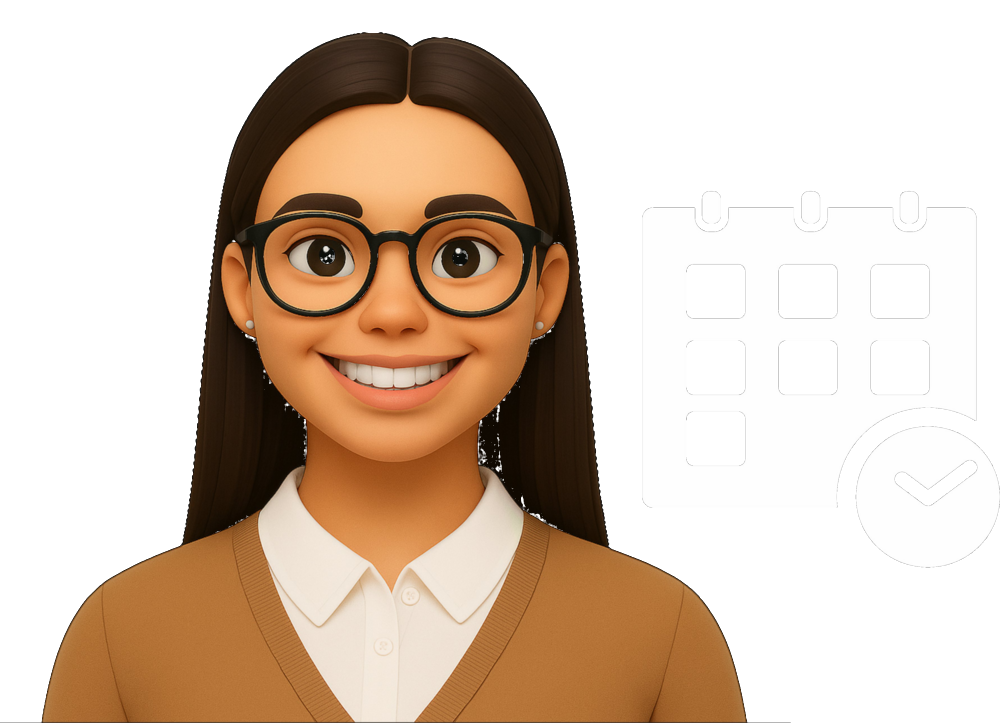
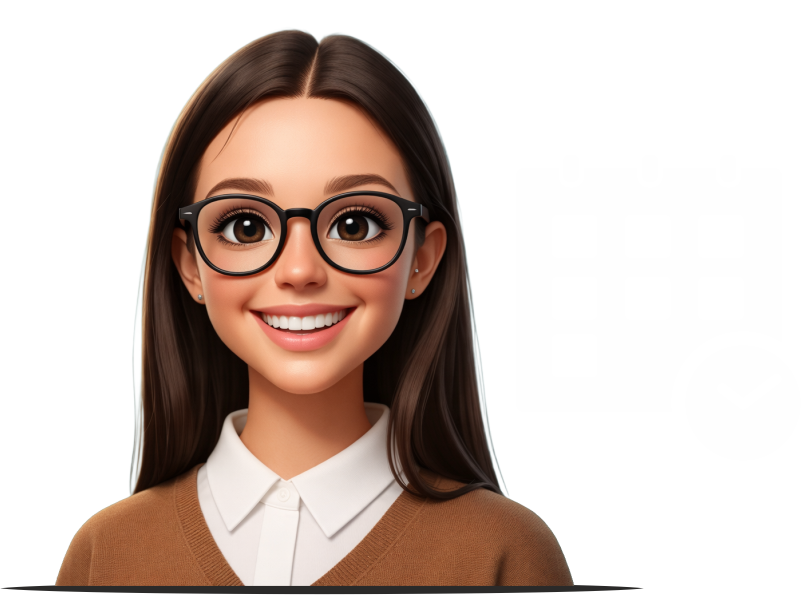
feat(voice-agents): scene-PNG popups for all 9 agents
Replaces the circular avatar + expanding rings treatment with the
scene-style PNG treatment (character + role icon side-by-side)
for every agent. Previously only April had this; the other 8
were still falling back to the circular .call-avatar.

User supplied a zip of 9 transparent RGBA PNGs (Ai_agent_with_
icons.zip), one per agent, each containing the character on the
left and a role-appropriate icon on the right.

What changed:

  1. 9 PNGs dropped into /public/images/ following the existing
     '<name>-popup.png' naming convention that april-popup.png
     already used:
       april-popup.png    (overwrites existing — new April art)
       ariel-popup.png    NEW
       chris-popup.png    NEW
       cindy-popup.png    NEW
       connie-popup.png   NEW
       curtis-popup.png   NEW
       elly-popup.png     NEW
       paige-popup.png    NEW
       priya-popup.png    NEW

  2. src/data/voice-agents.ts: added 'popupImage' field to the
     8 agents that didn't have it. April already had its entry
     and just gets the new art via filename. The popupImage
     field is the documented signal in VoiceCallModal.tsx for
     'render the PNG instead of the circular avatar'.

What didn't change (and shouldn't):

  - VoiceCallModal.tsx render path. The 'agent.popupImage ?
    <img class=call-popup-image /> : <div class=call-avatar-wrap />'
    fork at line 325 already handles both modes; flipping all 9
    agents into the 'popupImage' branch is a pure data change.
[…]

diff --git a/src/data/voice-agents.ts b/src/data/voice-agents.ts
@@ -58,18 +58,21 @@ export const AGENTS: VoiceAgentData[] = [
   {
     name: 'Elly', shortRole: 'Eligibility', role: 'Eligibility',
     img: 'elly.png',
+    popupImage: 'elly-popup.png',
     agentId: 'agent_f7e96fe43ce9bb611481839af8',  // Harper (closest pre-service)
     greeting: "Hi, I'm Elly, I verify eligibility and benefits before every appointment so coverage issues don't surface at the desk.",
   },
   {
     name: 'Paige', shortRole: 'Authorization', role: 'Authorization',
     img: 'paige.png',
+    popupImage: 'paige-popup.png',
     agentId: 'agent_a8f606995d3160a92be6874661',  // Olivia (closest unused)
     greeting: "Hey, I'm Paige, I track prior authorizations and close them out before they delay procedures or drop into timely-filing territory.",
   },
   {
     name: 'Priya', shortRole: 'Payments', role: 'Payments',
     img: 'priya.png',
+    popupImage: 'priya-popup.png',
     agentId: 'agent_4510e7416ee31ca808b8546ed7',  // Cindy (patient payment, reused)
     greeting: "Hi, I'm Priya, I reach patients three to seven days pre-procedure with verified estimates so collection rates stay 30-40% higher.",
   },
@@ -83,30 +86,35 @@ export const AGENTS: VoiceAgentData[] = [
   {
     name: 'Curtis', shortRole: 'Support', role: 'Support',
     img: 'curtis.png',
+    popupImage: 'curtis-popup.png',
     agentId: 'agent_443ead51c8a35f874d0ca1a8c1',  // Michael (Operations)
     greeting: "Hey, Curtis here, I cover after-hours and overflow so no patient call goes unanswered. What's on your mind?",
   },
   {
     name: 'Chris', shortRole: 'Claims', role: 'Claims',
     img: 'chris.png',
+    popupImage: 'chris-popup.png',
     agentId: 'agent_9571fe9261e3944f33777a1406',  // Chris (EXACT match)
     greeting: "Hey, Chris here, I specialize in billing workflows and claim follow-up. What do you need?",
   },
   {
     name: 'Cindy', shortRole: 'Collections', role: 'Collections',
     img: 'cindy.png',
+    popupImage: 'cindy-popup.png',
     agentId: 'agent_4510e7416ee31ca808b8546ed7',  // Cindy (EXACT match)
     greeting: "Hi, I'm Cindy, I focus on patient balance collections and AR follow-up in 50+ languages. Want to talk strategy?",
   },
   {
     name: 'Ariel', shortRole: 'AR', role: 'AR',
     img: 'ariel.png',
+    popupImage: 'ariel-popup.png',
     agentId: 'agent_1b7fe9e057f84254f4fcca9256',  // Sarah (closest unused)
     greeting: "Hi, I'm Ariel, I work AR aging, payer follow-up, and underpayment recovery so cash keeps moving.",
   },
   {
     name: 'Connie', shortRole: 'Coding', role: 'Coding',
     img: 'connie.png',
+    popupImage: 'connie-popup.png',
     agentId: 'agent_ff8707dccf16f96ecec4c448d3',  // Emily (Coding, EXACT role)
     greeting: "Hi, I'm Connie, I assist with medical coding accuracy, modifier selection, and CDI. How can I help?",
   },
